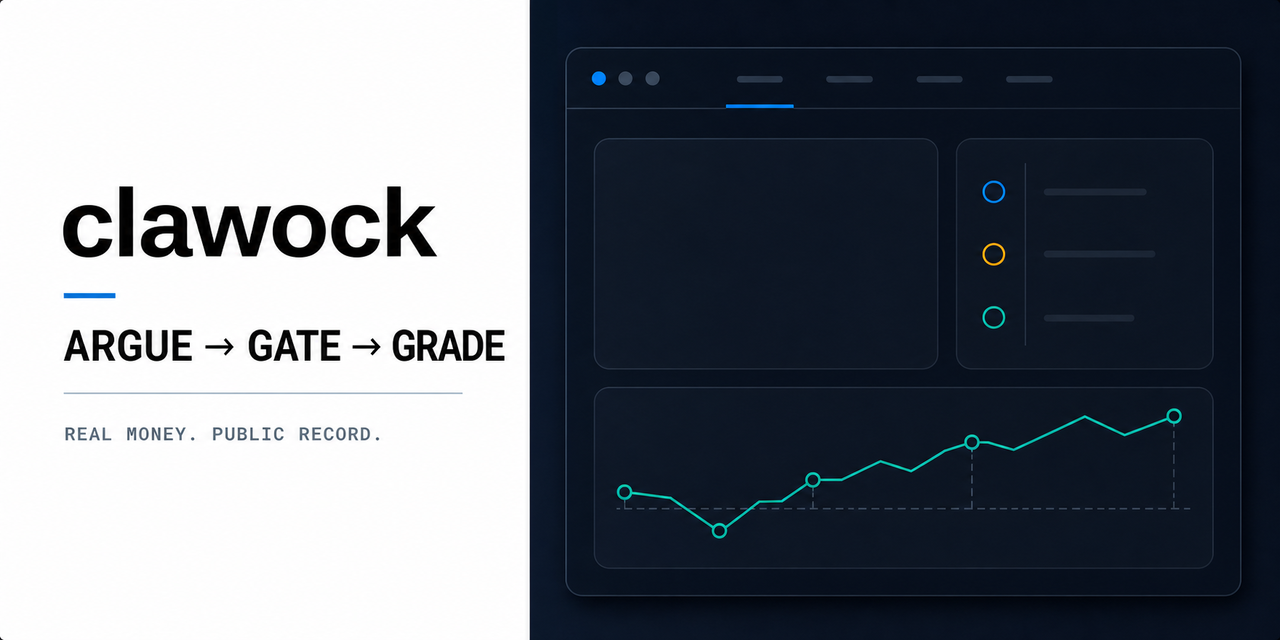
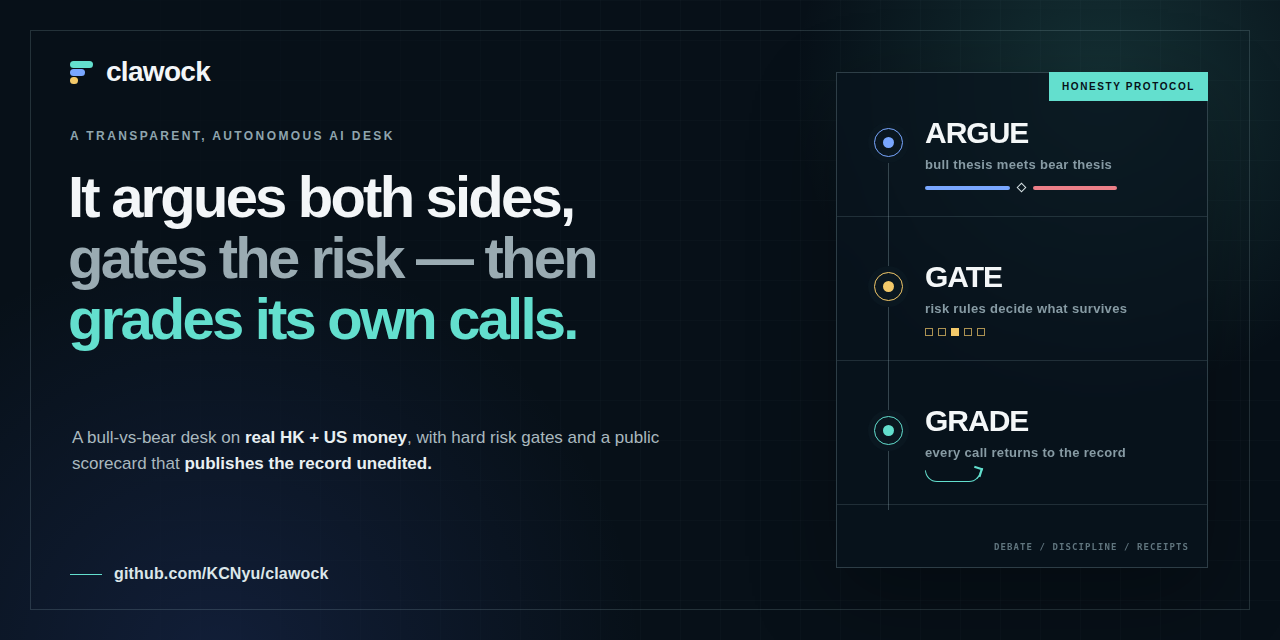
script: restore editorial social card

diff --git a/scripts/data/shoot_dashboard.js b/scripts/data/shoot_dashboard.js
@@ -13,7 +13,7 @@
  *
  * Outputs:
  *   assets/shadow-backtest.png   v2 cumulative win-rate chart (all / active / 50% ref)
- *   assets/social-card.png       1280x640 ImageGen template + fresh Hero dashboard
+ *   assets/social-card.png       1280x640 dark editorial card + fresh Hero dashboard
  *   assets/dashboard.gif         manual dispatch only; built from FRAME_DIR
  *   TMP_DIR/dashboard-preview.png  focused dark Hero crop embedded into the social card
  *   .gifframes/f{0..5}.png       per-tab mobile frames → assemble_dashboard_gif.py
@@ -184,23 +184,75 @@ function legacyCardHTML(shotDataUri) {
 function compositeCardHTML(templateDataUri, shotDataUri) {
   return `<!doctype html><html><head><meta charset="utf-8"><style>
     * { box-sizing:border-box; }
-    html,body { margin:0; width:1280px; height:640px; overflow:hidden; background:#f7f9fb; }
+    html,body { margin:0; width:1280px; height:640px; overflow:hidden; background:#071018; }
     .template { position:absolute; inset:0; width:100%; height:100%; object-fit:cover; }
+    .browser {
+      position:absolute; left:800px; top:52px; width:420px; height:536px;
+      overflow:hidden; border:1px solid #344555; border-radius:14px;
+      background:#09131d; box-shadow:0 28px 70px rgba(0,0,0,.38);
+      font-family:-apple-system,BlinkMacSystemFont,"Segoe UI","Helvetica Neue",sans-serif;
+    }
+    .chrome {
+      height:45px; display:flex; align-items:center; gap:7px; padding:0 14px;
+      border-bottom:1px solid #263847; background:#0b1721;
+    }
+    .dot { width:8px; height:8px; border-radius:50%; background:#324555; }
+    .dot:first-child { background:#36a3ff; }
+    .address {
+      width:126px; height:8px; margin-left:15px; border-radius:99px;
+      background:#1d2d3b;
+    }
+    .protocol-label {
+      margin-left:auto; padding:7px 10px; color:#071018; background:#63dfce;
+      font:850 9px/1 ui-monospace,SFMono-Regular,Menlo,monospace; letter-spacing:.12em;
+    }
     .live {
-      position:absolute; left:590px; top:108px; width:620px; height:468px;
-      overflow:hidden; border:1px solid #2d3e52; border-radius:0 0 12px 12px;
-      background:#070a0f; box-shadow:0 24px 54px rgba(0,0,0,.34);
+      position:absolute; left:14px; top:59px; width:390px; height:244px;
+      overflow:hidden; border:1px solid #263847; border-radius:9px; background:#070a0f;
     }
-    .live img {
-      width:100%; height:100%; display:block; object-fit:cover; object-position:left top;
-    }
+    .live img { width:100%; height:100%; display:block; object-fit:cover; object-position:left top; }
     .live::after {
       content:""; position:absolute; inset:0; pointer-events:none;
-      box-shadow:inset 0 0 0 1px rgba(142,208,255,.06);
+      box-shadow:inset 0 0 0 1px rgba(142,208,255,.05);
+    }
+    .protocol {
+      position:absolute; left:14px; right:14px; top:317px; bottom:14px;
+      border:1px solid #263847; border-radius:9px; overflow:hidden; background:#0b1721;
+    }
+    .step {
+      height:56px; display:grid; grid-template-columns:26px 72px 1fr;
+      align-items:center; padding:0 13px; border-bottom:1px solid #20313f;
+    }
+    .step:last-of-type { border-bottom:0; }
+    .node {
+      width:18px; height:18px; border:1px solid currentColor; border-radius:50%;
+      position:relative; color:#79a7ff;
+    }
+    .node::after { content:""; position:absolute; inset:5px; border-radius:50%; background:currentColor; }
+    .gate .node { color:#f3c969; }
+    .grade .node { color:#63dfce; }
+    .verb { color:#f3f6f8; font-size:16px; font-weight:780; letter-spacing:-.2px; }
+    .desc { color:#879ba4; font-size:10px; font-weight:560; letter-spacing:.02em; }
+    .micro {
+      position:absolute; left:13px; right:13px; bottom:7px; text-align:right;
+      color:#60757e; font:650 8px/1 ui-monospace,SFMono-Regular,Menlo,monospace;
+      letter-spacing:.12em;
     }
   </style></head><body>
     <img class="template" src="${templateDataUri}" alt="">
-    <div class="live"><img src="${shotDataUri}" alt=""></div>
+    <div class="browser">
+      <div class="chrome">
+        <span class="dot"></span><span class="dot"></span><span class="dot"></span>
+        <span class="address"></span><span class="protocol-label">HONESTY PROTOCOL</span>
+      </div>
+      <div class="live"><img src="${shotDataUri}" alt=""></div>
+      <div class="protocol">
+        <div class="step argue"><span class="node"></span><span class="verb">ARGUE</span><span class="desc">bull thesis meets bear thesis</span></div>
+        <div class="step gate"><span class="node"></span><span class="verb">GATE</span><span class="desc">risk rules decide what survives</span></div>
+        <div class="step grade"><span class="node"></span><span class="verb">GRADE</span><span class="desc">every call returns to the record</span></div>
+        <div class="micro">DEBATE / DISCIPLINE / RECEIPTS</div>
+      </div>
+    </div>
   </body></html>`;
 }
 
@@ -231,9 +283,9 @@ function compositeCardHTML(templateDataUri, shotDataUri) {
     await shadow.screenshot({ path: `${OUT_DIR}/shadow-backtest.png` });
     await desk.close();
 
-    // 2) Social card: light editorial message on the left, real dark-mode product
-    //    crop on the right. A focused 1000×760 crop keeps Book / P&L / equity /
-    //    verdict legible; shrinking an entire 1440px desktop made every detail noise.
+    // 2) Social card: keep the original all-dark editorial identity, then make the
+    //    right rail a real browser — focused live dashboard above, honesty protocol
+    //    below. Shrinking an entire desktop made both the browser and data illegible.
     const socialDesk = await browser.newContext({
       viewport: { width: 1200, height: 760 },
       deviceScaleFactor: 2,
@@ -244,7 +296,7 @@ function compositeCardHTML(templateDataUri, shotDataUri) {
     await settle(sp);
     await sp.screenshot({
       path: `${TMP_DIR}/dashboard-preview.png`,
-      clip: { x: 0, y: 0, width: 1000, height: 760 },
+      clip: { x: 0, y: 0, width: 1100, height: 620 },
     });
     await socialDesk.close();
 
